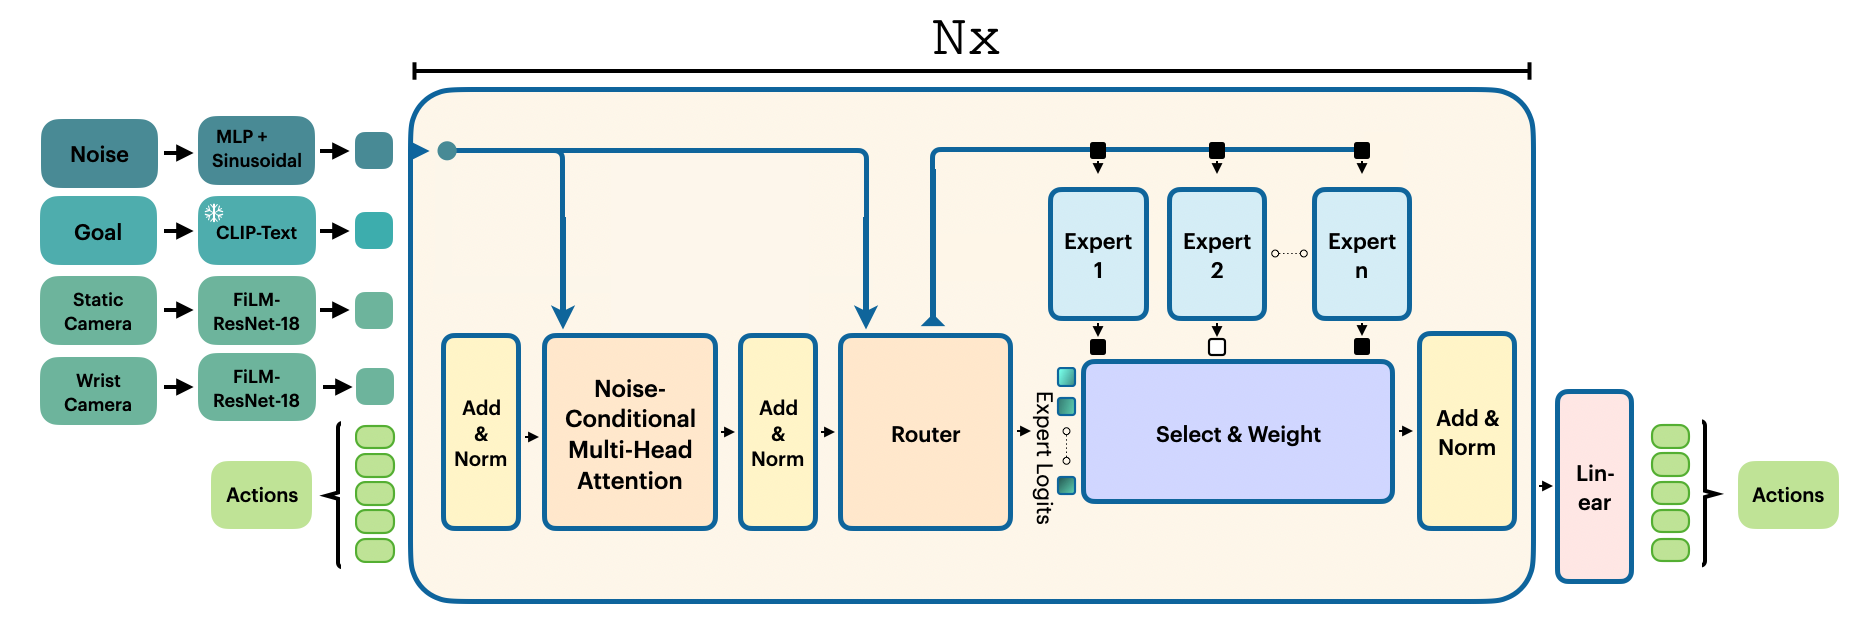
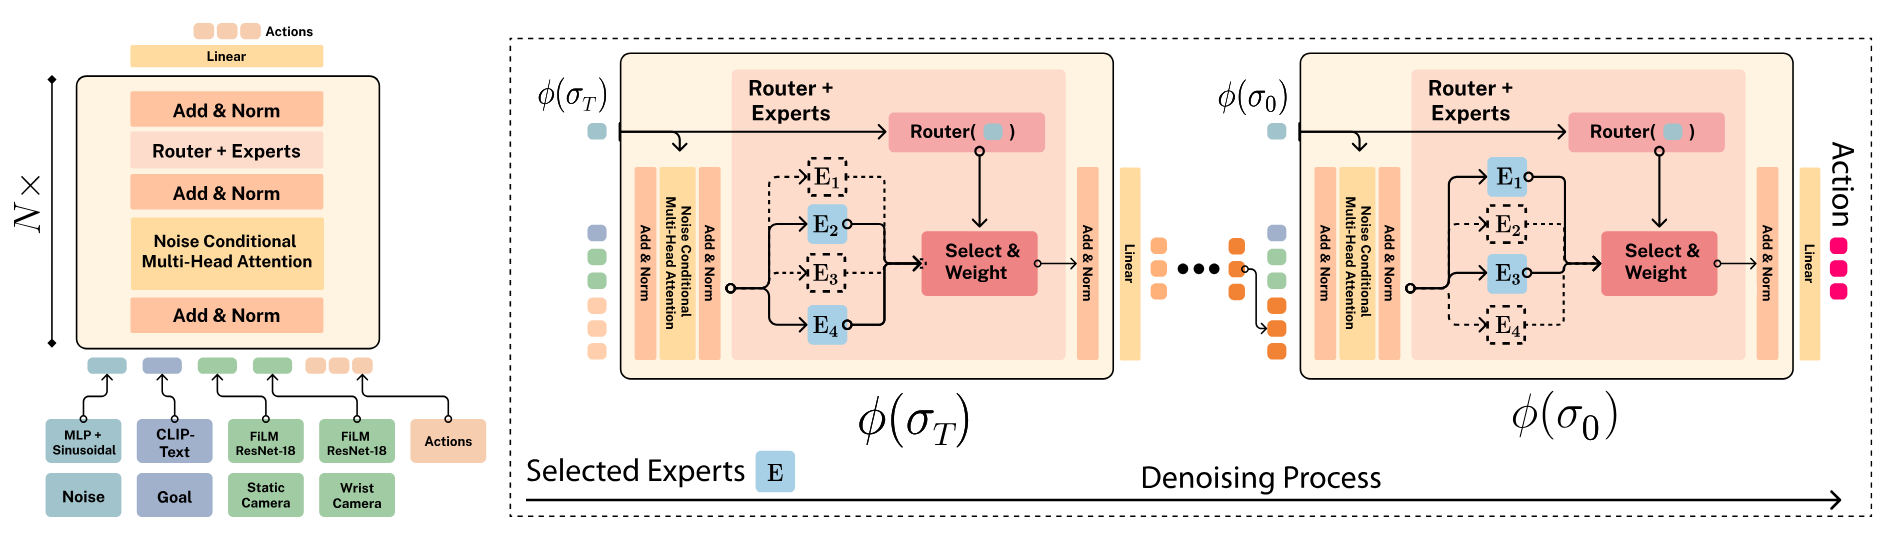
update

diff --git a/index.md b/index.md
@@ -5,7 +5,7 @@ permalink: /
 title: "Efficient Diffusion Transformer Policies with Mixture of Expert Denoisers for Multitask Learning"
 authors: <a href="https://mbreuss.github.io/moritzreuss/">Moritz Reuss</a><sup>1</sup>, <a href="https://jyopari.github.io/aboutMe.html">Jyothish Pari</a><sup>1</sup>, <a href="https://people.csail.mit.edu/pulkitag/">Pulkit Agrawal</a><sup>2</sup>, <a href="http://rudolf.intuitive-robots.net/">Rudolf Lioutikov</a><sup>1</sup>
 affiliations: <sup>1</sup>Intuitive Robots Lab, KIT <sup>2</sup>MIT CSAIL
-venue: "ICLR 2024"
+# venue: "ICLR 2025"
 # paper: https://arxiv.org/abs/2406.12538
 # video:
 # code: https://github.com/VDD-Anonymous/Variational-Diffusion-Distillation
@@ -58,7 +58,13 @@ The Mixture-of-Denoising Experts (MoDE) policy presents a groundbreaking approac
 
 ### Noise-Conditioned Routing and Self-Attention in Diffusion Transformers
 
-MoDE introduces a novel noise-conditioned routing mechanism, paired with a noise-conditioned self-attention framework, optimizing how tokens are allocated to specialized experts during the denoising process. This design leverages the current noise level to guide token routing, allowing the model to adjust dynamically and enhance denoising at each stage. By conditioning both the routing and self-attention mechanisms on noise, MoDE achieves a refined action generation across a wide range of imitation learning tasks, demonstrating a 20% improvement over previous diffusion models. This innovative noise-aware strategy not only improves performance but also reduces the risk of expert collapse, where experts become redundant, by ensuring the router’s effective distribution of tokens across experts based on task demands.
+MoDE introduces a novel noise-conditioned routing mechanism, paired with a noise-conditioned self-attention framework, optimizing how tokens are allocated to specialized experts during the denoising process. By conditioning both the routing and self-attention mechanisms on noise, the model dynamically adjusts token routing, enhancing denoising at each stage and achieving a refined action generation across a wide range of imitation learning tasks. This innovative strategy demonstrates a 20% improvement over previous diffusion models and reduces the risk of expert collapse by ensuring effective distribution of tokens across experts based on task demands.
+
+<div class="columns is-centered">
+    <img src="./static/image/caching.png" alt="MoDE" class="column is-four-fifths">
+</div>
+
+A key advantage of our noise-conditioned design is the deterministic routing path at each noise level, which can be precomputed. By determining the chosen experts ahead of time, the selected expert MLPs can be fused into a single, composite MLP, effectively reducing computation costs. This fused MLP enables parallel execution, substantially decreasing network latency and streamlining memory access patterns by eliminating the need for dynamically invoking each expert. Our caching strategy further reduces FLOPs overhead by over 80% compared to standard MoE rollouts, making the model twice as fast during inference.
 
 ## MoDE Excels in Long-Horizon Multi-Task Learning on LIBERO Benchmark
 
